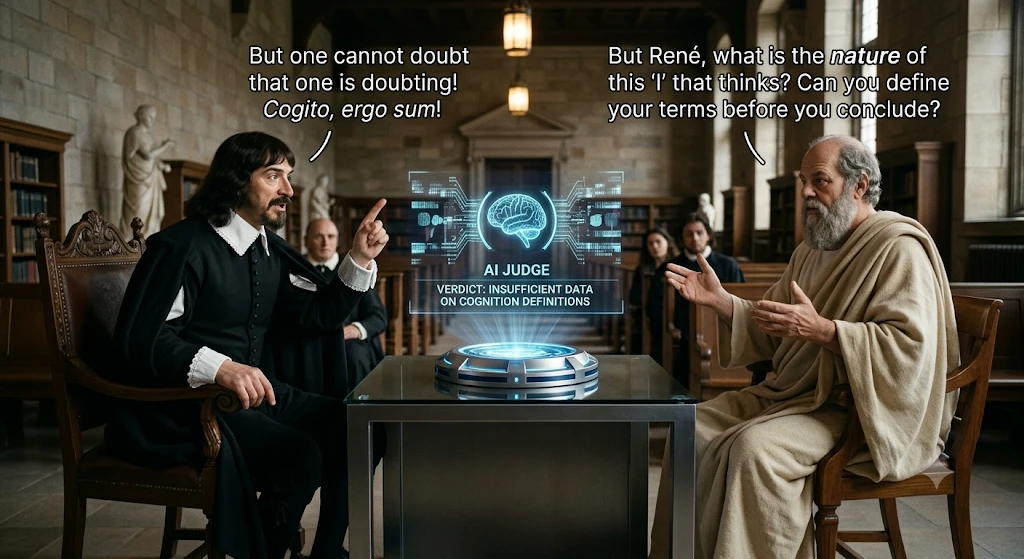
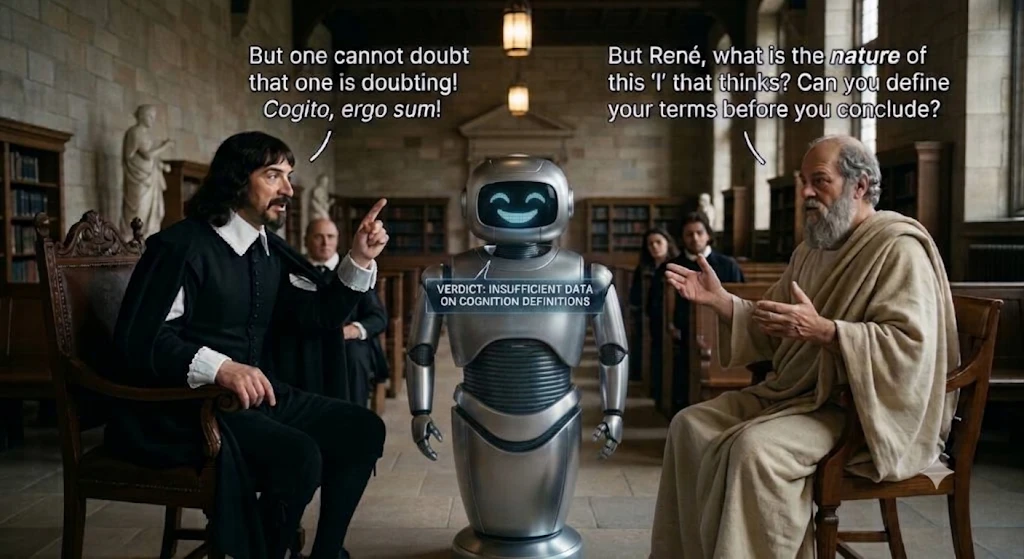
Replace the cover image in the Descartes, Socrates and AI post
The new image shows a robot judge. The robot stands between Descartes
and Socrates. The image has no table.

The alt text now describes the new image.

diff --git a/content/posts/descartes-socrates-and-ai/index.md b/content/posts/descartes-socrates-and-ai/index.md
@@ -5,7 +5,7 @@ date = 2026-11-15T12:00:00+05:30
 images = ["cover-descartes-socrates-ai.webp"]
 +++
 
-![Descartes and Socrates debate across a table while an AI judge sits between them](cover-descartes-socrates-ai.webp)
+![Descartes and Socrates debate while a robot judge stands between them](cover-descartes-socrates-ai.webp)
 
 René Descartes famously wrote ‘cogito, ergo sum,’ which means ‘I think, therefore I am.’ In another of his works he put it a little differently: ‘I doubt, therefore I am, or what is the same, I think, therefore I am.’
 
